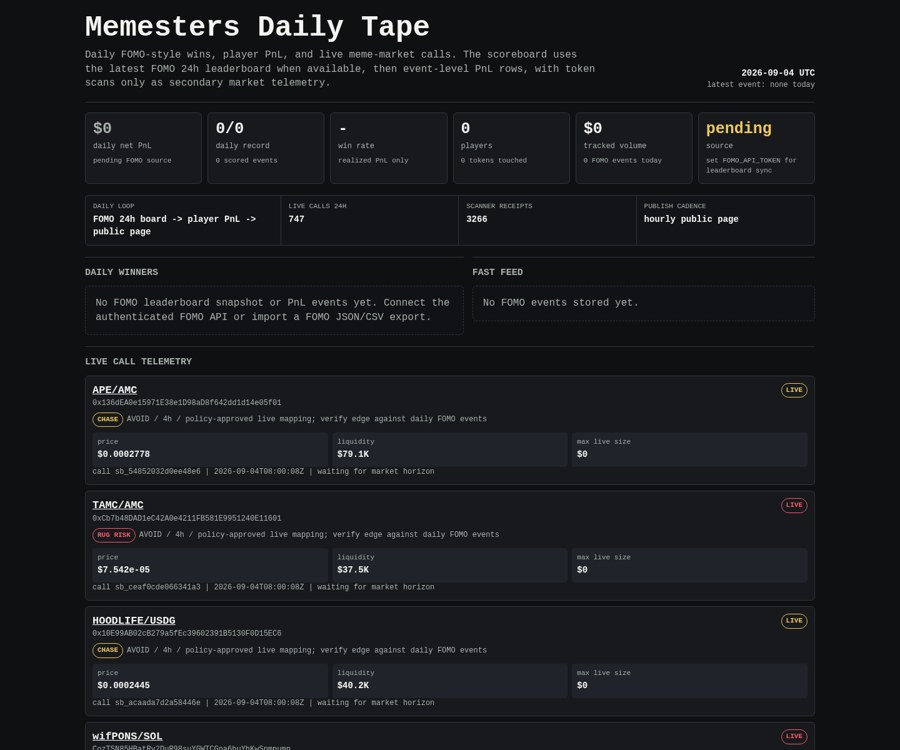
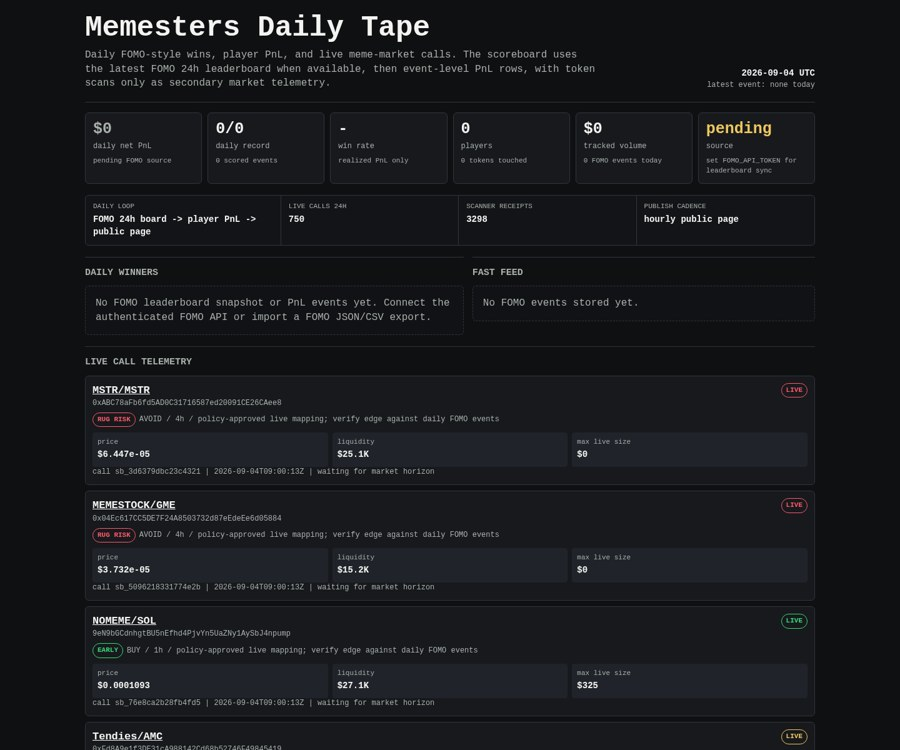
Update Memesters scoreboard

diff --git a/memesters/index.html b/memesters/index.html
@@ -149,8 +149,8 @@
 
     <div class="rail" aria-label="live operating loop">
       <div><span>daily loop</span><b>FOMO 24h board -> player PnL -> public page</b></div>
-      <div><span>live calls 24h</span><b>747</b></div>
-      <div><span>scanner receipts</span><b>3266</b></div>
+      <div><span>live calls 24h</span><b>750</b></div>
+      <div><span>scanner receipts</span><b>3298</b></div>
       <div><span>publish cadence</span><b>hourly public page</b></div>
     </div>
 
@@ -171,29 +171,8 @@
     <article class="receipt">
       <div class="receipt-head">
         <div>
-          <div class="pair"><a href="https://dexscreener.com/robinhood/0xeb5051aaed55c0ac4181a366ccf34c4f1951a8dac7090c4419f4c97e1f284173">APE/AMC</a></div>
-          <div class="addr">0x136dEA0e15971E38e1D98aD8f642dd1d14e05f01</div>
-          <div class="addr policy-line">
-            <span class="badge chase">CHASE</span>
-            <span>AVOID / 4h / policy-approved live mapping; verify edge against daily FOMO events</span>
-          </div>
-        </div>
-        <span class="badge chase">LIVE</span>
-      </div>
-      <div class="receipt-grid">
-        <div class="kv"><span>price</span><b>$0.0002778</b></div>
-        <div class="kv"><span>liquidity</span><b>$79.1K</b></div>
-        <div class="kv"><span>max live size</span><b>$0</b></div>
-      </div>
-      <div class="outcomes">call sb_54852032d0ee48e6 | 2026-09-04T08:00:08Z | waiting for market horizon</div>
-    </article>
-    
-
-    <article class="receipt">
-      <div class="receipt-head">
-        <div>
-          <div class="pair"><a href="https://dexscreener.com/robinhood/0x197e1223da4ab2f6e0f03c29a7f3f9ef9756e7a56b0fdc965a21ad5db4bfe712">TAMC/AMC</a></div>
-          <div class="addr">0xCb7b48DAD1eC42A0e4211FB581E9951240E11601</div>
+          <div class="pair"><a href="https://dexscreener.com/robinhood/0x47578ccc8b016f1ef01eb459fc8ffb57c5bf68549935a631ecc06a5872fc3793">MSTR/MSTR</a></div>
+          <div class="addr">0xABC78aFb6fd5AD0C31716587ed20091CE26CAee8</div>
           <div class="addr policy-line">
             <span class="badge rug-risk">RUG RISK</span>
             <span>AVOID / 4h / policy-approved live mapping; verify edge against daily FOMO events</span>
@@ -202,40 +181,19 @@
         <span class="badge rug-risk">LIVE</span>
       </div>
       <div class="receipt-grid">
-        <div class="kv"><span>price</span><b>$7.542e-05</b></div>
-        <div class="kv"><span>liquidity</span><b>$37.5K</b></div>
+        <div class="kv"><span>price</span><b>$6.447e-05</b></div>
+        <div class="kv"><span>liquidity</span><b>$25.1K</b></div>
         <div class="kv"><span>max live size</span><b>$0</b></div>
       </div>
-      <div class="outcomes">call sb_ceaf0cde066341a3 | 2026-09-04T08:00:08Z | waiting for market horizon</div>
+      <div class="outcomes">call sb_3d6379dbc23c4321 | 2026-09-04T09:00:13Z | waiting for market horizon</div>
     </article>
     
 
     <article class="receipt">
       <div class="receipt-head">
         <div>
-          <div class="pair"><a href="https://dexscreener.com/robinhood/0x8f26d03a69224dfb57fd1b2ad2cc6b72b3438b2b60300431e117cf48ba35bc5a">HOODLIFE/USDG</a></div>
-          <div class="addr">0x10E99AB02cB279a5fEc39602391B5130F0D15EC6</div>
-          <div class="addr policy-line">
-            <span class="badge chase">CHASE</span>
-            <span>AVOID / 4h / policy-approved live mapping; verify edge against daily FOMO events</span>
-          </div>
-        </div>
-        <span class="badge chase">LIVE</span>
-      </div>
-      <div class="receipt-grid">
-        <div class="kv"><span>price</span><b>$0.0002445</b></div>
-        <div class="kv"><span>liquidity</span><b>$40.2K</b></div>
-        <div class="kv"><span>max live size</span><b>$0</b></div>
-      </div>
-      <div class="outcomes">call sb_acaada7d2a58446e | 2026-09-04T08:00:08Z | waiting for market horizon</div>
-    </article>
-    
-
-    <article class="receipt">
-      <div class="receipt-head">
-        <div>
-          <div class="pair"><a href="https://dexscreener.com/solana/cozanuvghgwzif5htqgai91yylqlvjhbna5m3pskqk9z">wifPONS/SOL</a></div>
-          <div class="addr">CozTSN85HBatRy2DuR98suYGWTCGna6buYhKwSnmpump</div>
+          <div class="pair"><a href="https://dexscreener.com/robinhood/0x38ebe330c83d3c522f6a2bb66e0b8a05ede7ba2c76e221201b46e2f0460f5db7">MEMESTOCK/GME</a></div>
+          <div class="addr">0x04Ec617CC5DE7F24A8503732d87eEdeEe6d05884</div>
           <div class="addr policy-line">
             <span class="badge rug-risk">RUG RISK</span>
             <span>AVOID / 4h / policy-approved live mapping; verify edge against daily FOMO events</span>
@@ -244,61 +202,19 @@
         <span class="badge rug-risk">LIVE</span>
       </div>
       <div class="receipt-grid">
-        <div class="kv"><span>price</span><b>$0.0001165</b></div>
-        <div class="kv"><span>liquidity</span><b>$28.8K</b></div>
+        <div class="kv"><span>price</span><b>$3.732e-05</b></div>
+        <div class="kv"><span>liquidity</span><b>$15.2K</b></div>
         <div class="kv"><span>max live size</span><b>$0</b></div>
       </div>
-      <div class="outcomes">call sb_64655e52f6b541e6 | 2026-09-04T08:00:08Z | waiting for market horizon</div>
+      <div class="outcomes">call sb_5096218331774e2b | 2026-09-04T09:00:13Z | waiting for market horizon</div>
     </article>
     
 
     <article class="receipt">
       <div class="receipt-head">
         <div>
-          <div class="pair"><a href="https://dexscreener.com/solana/cqhfxw2aney4qe7uzsurrhgyjjd58gcdgve8juw2qzwj">AMC/SOL</a></div>
-          <div class="addr">EZ8r6aYWhEiaE44zQmTCVeaYeZQP6QMuCqZarXfApump</div>
-          <div class="addr policy-line">
-            <span class="badge chase">CHASE</span>
-            <span>AVOID / 4h / policy-approved live mapping; verify edge against daily FOMO events</span>
-          </div>
-        </div>
-        <span class="badge chase">LIVE</span>
-      </div>
-      <div class="receipt-grid">
-        <div class="kv"><span>price</span><b>$0.0001654</b></div>
-        <div class="kv"><span>liquidity</span><b>$33.2K</b></div>
-        <div class="kv"><span>max live size</span><b>$0</b></div>
-      </div>
-      <div class="outcomes">call sb_51d10310cd474c5c | 2026-09-04T08:00:08Z | waiting for market horizon</div>
-    </article>
-    
-
-    <article class="receipt">
-      <div class="receipt-head">
-        <div>
-          <div class="pair"><a href="https://dexscreener.com/robinhood/0x6fb8d314c50e659e8d0c77691ae557889154f0e17f12839c6be8afc412d6cf9a">AMC/AMC</a></div>
-          <div class="addr">0xeD996de448b7499Db2e20B9Ab4226420c0828601</div>
-          <div class="addr policy-line">
-            <span class="badge chase">CHASE</span>
-            <span>AVOID / 4h / policy-approved live mapping; verify edge against daily FOMO events</span>
-          </div>
-        </div>
-        <span class="badge chase">LIVE</span>
-      </div>
-      <div class="receipt-grid">
-        <div class="kv"><span>price</span><b>$5.318e-05</b></div>
-        <div class="kv"><span>liquidity</span><b>$30.5K</b></div>
-        <div class="kv"><span>max live size</span><b>$0</b></div>
-      </div>
-      <div class="outcomes">call sb_b4acf56718b14a8b | 2026-09-04T08:00:08Z | waiting for market horizon</div>
-    </article>
-    
-
-    <article class="receipt">
-      <div class="receipt-head">
-        <div>
-          <div class="pair"><a href="https://dexscreener.com/bsc/0x58689afb64fb37d754d871c7f6c2ec967e4a95c5">TREASURY/USD1</a></div>
-          <div class="addr">0x52F3fCc55cAe09Fe4B469a487CE95214d03a7777</div>
+          <div class="pair"><a href="https://dexscreener.com/solana/a2jz6wdbdsxvmknastgduoax8as2gayrygpuz1bcxexd">NOMEME/SOL</a></div>
+          <div class="addr">9eN9bGCdnhgtBU5nEfhd4PjvYn5UaZNy1AySbJ4npump</div>
           <div class="addr policy-line">
             <span class="badge early">EARLY</span>
             <span>BUY / 1h / policy-approved live mapping; verify edge against daily FOMO events</span>
@@ -307,40 +223,19 @@
         <span class="badge early">LIVE</span>
       </div>
       <div class="receipt-grid">
-        <div class="kv"><span>price</span><b>$5.381e-05</b></div>
-        <div class="kv"><span>liquidity</span><b>$20.9K</b></div>
-        <div class="kv"><span>max live size</span><b>$175</b></div>
+        <div class="kv"><span>price</span><b>$0.0001093</b></div>
+        <div class="kv"><span>liquidity</span><b>$27.1K</b></div>
+        <div class="kv"><span>max live size</span><b>$325</b></div>
       </div>
-      <div class="outcomes">call sb_20042202be584f73 | 2026-09-04T08:00:08Z | waiting for market horizon</div>
+      <div class="outcomes">call sb_76e8ca2b28fb4fd5 | 2026-09-04T09:00:13Z | waiting for market horizon</div>
     </article>
     
 
     <article class="receipt">
       <div class="receipt-head">
         <div>
-          <div class="pair"><a href="https://dexscreener.com/robinhood/0xfac6bc6c833e21accfa83547c9953ec16aab909166d058e4a24e381ba1f5eb32">AMC/AMC</a></div>
-          <div class="addr">0xAe0A1016c596AE01F0210DE647ba2627202E8101</div>
-          <div class="addr policy-line">
-            <span class="badge early">EARLY</span>
-            <span>BUY / 1h / policy-approved live mapping; verify edge against daily FOMO events</span>
-          </div>
-        </div>
-        <span class="badge early">LIVE</span>
-      </div>
-      <div class="receipt-grid">
-        <div class="kv"><span>price</span><b>$1.143e-05</b></div>
-        <div class="kv"><span>liquidity</span><b>$10.6K</b></div>
-        <div class="kv"><span>max live size</span><b>$127</b></div>
-      </div>
-      <div class="outcomes">call sb_ccb9989af1474dba | 2026-09-04T07:45:08Z | waiting for market horizon</div>
-    </article>
-    
-
-    <article class="receipt">
-      <div class="receipt-head">
-        <div>
-          <div class="pair"><a href="https://dexscreener.com/robinhood/0x05f65c6277c921459d99b0d79bdae43028ccc753fb022eed987af1ab04346d25">RCOMBINATOR/ETH</a></div>
-          <div class="addr">0x37336e5441E1EA20A6684f22aafC29fd266E1786</div>
+          <div class="pair"><a href="https://dexscreener.com/robinhood/0x09e67b4805061117b1a87f886a3ed08669a90988a3e76d8f3204c78f1b0b7e81">Tendies/AMC</a></div>
+          <div class="addr">0xFd8A9e1f3DE31cA988142Cd68b52746F49845419</div>
           <div class="addr policy-line">
             <span class="badge chase">CHASE</span>
             <span>AVOID / 4h / policy-approved live mapping; verify edge against daily FOMO events</span>
@@ -349,19 +244,82 @@
         <span class="badge chase">LIVE</span>
       </div>
       <div class="receipt-grid">
-        <div class="kv"><span>price</span><b>$0.0001449</b></div>
-        <div class="kv"><span>liquidity</span><b>$35.3K</b></div>
+        <div class="kv"><span>price</span><b>$0.0004275</b></div>
+        <div class="kv"><span>liquidity</span><b>$38.8K</b></div>
         <div class="kv"><span>max live size</span><b>$0</b></div>
       </div>
-      <div class="outcomes">call sb_86f094d6da9f41b0 | 2026-09-04T07:45:08Z | waiting for market horizon</div>
+      <div class="outcomes">call sb_d8387ae1376a46fe | 2026-09-04T09:00:12Z | waiting for market horizon</div>
     </article>
     
 
     <article class="receipt">
       <div class="receipt-head">
         <div>
-          <div class="pair"><a href="https://dexscreener.com/base/0x2657b6b01b361cb8ea2ff9c96dff8d96ba5d2540">MERLIN/MSFTc</a></div>
-          <div class="addr">0xf204386f8C0c63e0BC3A4CD8A55BF3E71c0f7788</div>
+          <div class="pair"><a href="https://dexscreener.com/robinhood/0xd41804e8588586e4c122a2dc7b3e82dd7f4b1b341e3dd085435b32013095af32">PLTR/PLTR</a></div>
+          <div class="addr">0xf92FbDFaF906d172DC0ab24e4bBc1225a2341F4D</div>
+          <div class="addr policy-line">
+            <span class="badge chase">CHASE</span>
+            <span>AVOID / 4h / policy-approved live mapping; verify edge against daily FOMO events</span>
+          </div>
+        </div>
+        <span class="badge chase">LIVE</span>
+      </div>
+      <div class="receipt-grid">
+        <div class="kv"><span>price</span><b>$8.404e-05</b></div>
+        <div class="kv"><span>liquidity</span><b>$24.8K</b></div>
+        <div class="kv"><span>max live size</span><b>$0</b></div>
+      </div>
+      <div class="outcomes">call sb_9924a812611f4de6 | 2026-09-04T09:00:12Z | waiting for market horizon</div>
+    </article>
+    
+
+    <article class="receipt">
+      <div class="receipt-head">
+        <div>
+          <div class="pair"><a href="https://dexscreener.com/robinhood/0x9c9af2b919d590ae02195d6fab3da132d0cec1a453d4503a74489e7412b9ca2e">HOOD/HOOD</a></div>
+          <div class="addr">0xE402ECB44c6766826b0e4748D8c4D9144d93B8d4</div>
+          <div class="addr policy-line">
+            <span class="badge chase">CHASE</span>
+            <span>AVOID / 4h / policy-approved live mapping; verify edge against daily FOMO events</span>
+          </div>
+        </div>
+        <span class="badge chase">LIVE</span>
+      </div>
+      <div class="receipt-grid">
+        <div class="kv"><span>price</span><b>$3.9e-05</b></div>
+        <div class="kv"><span>liquidity</span><b>$20.2K</b></div>
+        <div class="kv"><span>max live size</span><b>$0</b></div>
+      </div>
+      <div class="outcomes">call sb_6705c2abb26b440c | 2026-09-04T09:00:12Z | waiting for market horizon</div>
+    </article>
+    
+
+    <article class="receipt">
+      <div class="receipt-head">
+        <div>
+          <div class="pair"><a href="https://dexscreener.com/robinhood/0xdfc74fdc65febbc94189b1f015b455b52ef430ea">KIWI/WETH</a></div>
+          <div class="addr">0xd5FEE75B0E9084262b22f934aA39a6898F584EEa</div>
+          <div class="addr policy-line">
+            <span class="badge chase">CHASE</span>
+            <span>AVOID / 4h / policy-approved live mapping; verify edge against daily FOMO events</span>
+          </div>
+        </div>
+        <span class="badge chase">LIVE</span>
+      </div>
+      <div class="receipt-grid">
+        <div class="kv"><span>price</span><b>$0.0001759</b></div>
+        <div class="kv"><span>liquidity</span><b>$88.1K</b></div>
+        <div class="kv"><span>max live size</span><b>$0</b></div>
+      </div>
+      <div class="outcomes">call sb_3cb4573a36fc47fc | 2026-09-04T09:00:12Z | waiting for market horizon</div>
+    </article>
+    
+
+    <article class="receipt">
+      <div class="receipt-head">
+        <div>
+          <div class="pair"><a href="https://dexscreener.com/robinhood/0xff314097f73a9a373b648dbe9adb6446340d453c585d572087deafcf7112147e">ROBINHOOD/USDG</a></div>
+          <div class="addr">0x5D8c7212A3D5d2C22d3849a7A7918c6A61c31961</div>
           <div class="addr policy-line">
             <span class="badge rug-risk">RUG RISK</span>
             <span>AVOID / 4h / policy-approved live mapping; verify edge against daily FOMO events</span>
@@ -370,11 +328,53 @@
         <span class="badge rug-risk">LIVE</span>
       </div>
       <div class="receipt-grid">
-        <div class="kv"><span>price</span><b>$8.607e-06</b></div>
-        <div class="kv"><span>liquidity</span><b>$7.5K</b></div>
+        <div class="kv"><span>price</span><b>$9.857e-06</b></div>
+        <div class="kv"><span>liquidity</span><b>$8.1K</b></div>
         <div class="kv"><span>max live size</span><b>$0</b></div>
       </div>
-      <div class="outcomes">call sb_27655116a420470b | 2026-09-04T07:45:07Z | waiting for market horizon</div>
+      <div class="outcomes">call sb_b2df1a0b7d0d4aa4 | 2026-09-04T09:00:12Z | waiting for market horizon</div>
+    </article>
+    
+
+    <article class="receipt">
+      <div class="receipt-head">
+        <div>
+          <div class="pair"><a href="https://dexscreener.com/robinhood/0x63e771e087c61a3b306021d028a21db35df64df9b733f9815ebf156bdac3993a">VLAD/HOOD</a></div>
+          <div class="addr">0xc2E5A3D71F2040E8d8C093B6b1a30c042F87C67E</div>
+          <div class="addr policy-line">
+            <span class="badge chase">CHASE</span>
+            <span>AVOID / 4h / policy-approved live mapping; verify edge against daily FOMO events</span>
+          </div>
+        </div>
+        <span class="badge chase">LIVE</span>
+      </div>
+      <div class="receipt-grid">
+        <div class="kv"><span>price</span><b>$0.0002916</b></div>
+        <div class="kv"><span>liquidity</span><b>$144.2K</b></div>
+        <div class="kv"><span>max live size</span><b>$0</b></div>
+      </div>
+      <div class="outcomes">call sb_4504e523d0674d9d | 2026-09-04T08:45:09Z | waiting for market horizon</div>
+    </article>
+    
+
+    <article class="receipt">
+      <div class="receipt-head">
+        <div>
+          <div class="pair"><a href="https://dexscreener.com/hyperevm/0x39f915bbec022ad441447ee7ce96fb430a824133">AUCTION/WHYPE</a></div>
+          <div class="addr">0xEba50F9BC52138309FcBFcB558925D132781B582</div>
+          <div class="addr policy-line">
+            <span class="badge chase">CHASE</span>
+            <span>AVOID / 4h / policy-approved live mapping; verify edge against daily FOMO events</span>
+          </div>
+        </div>
+        <span class="badge chase">LIVE</span>
+      </div>
+      <div class="receipt-grid">
+        <div class="kv"><span>price</span><b>$8.051e-06</b></div>
+        <div class="kv"><span>liquidity</span><b>$6.9K</b></div>
+        <div class="kv"><span>max live size</span><b>$0</b></div>
+      </div>
+      <div class="outcomes">call sb_65e87970fdc249f7 | 2026-09-04T08:45:09Z | waiting for market horizon</div>
     </article>
     
     </section>
